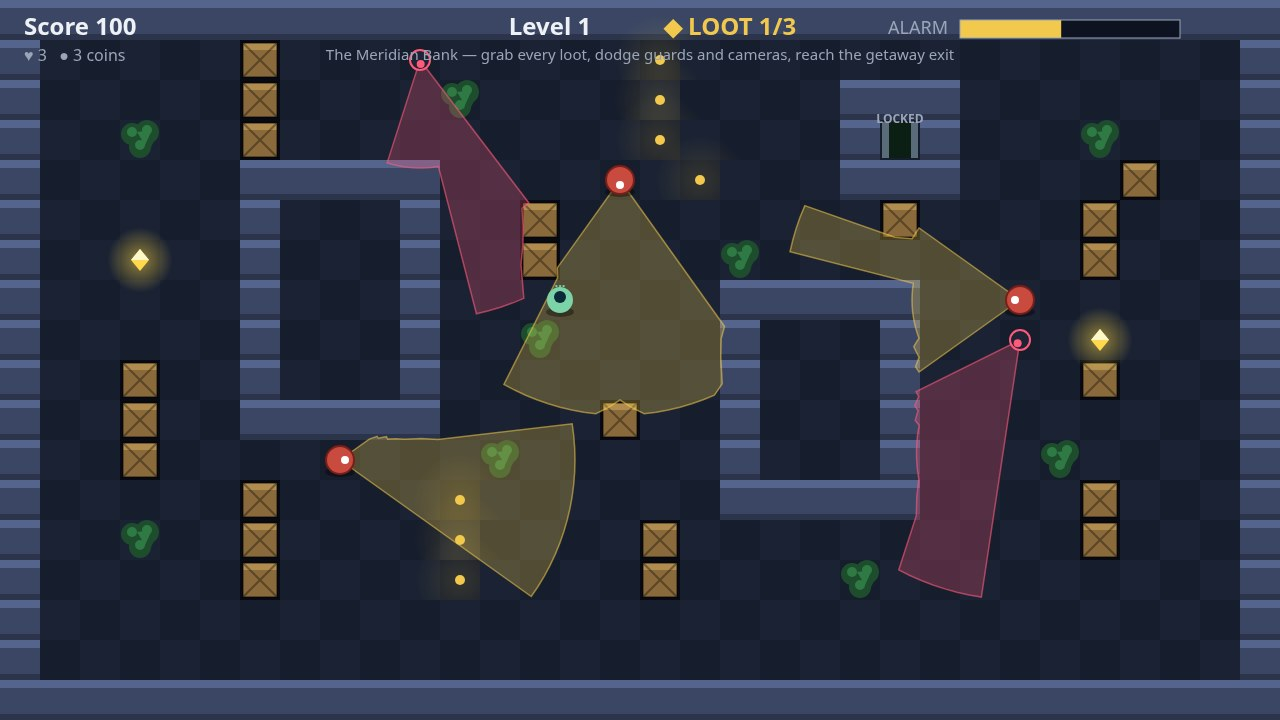
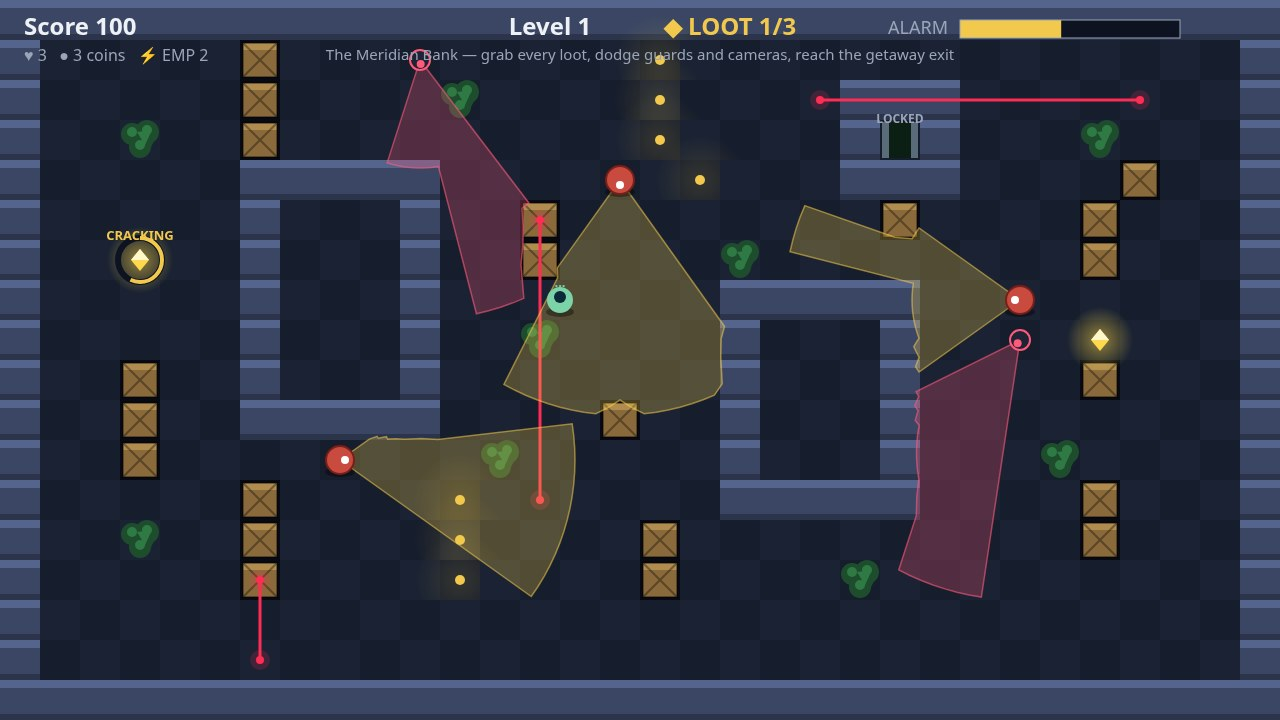
Add lasers, safe-cracking, EMP gadget

diff --git a/game/src/world.js b/game/src/world.js
@@ -12,6 +12,8 @@ export const EVENT_CAUGHT = 4;
 export const EVENT_LEVEL = 8;
 export const EVENT_WIN = 16;
 export const EVENT_PEBBLE = 32;
+export const EVENT_EMP = 64;
+export const EVENT_LASER = 128;
 
 function clamp(v, lo, hi) { return Math.max(lo, Math.min(hi, v)); }
 function dist(ax, ay, bx, by) { return Math.hypot(ax - bx, ay - by); }
@@ -29,7 +31,12 @@ export function createWorld() {
     player: { x: 60, y: 60, vx: 0, vy: 0, sneaking: false, moving: false },
     guards: [],
     cameras: [],
+    lasers: [],
     relics: [],
+    empCharges: 2,
+    empTimer: 0,
+    crackTarget: null,
+    crackProgress: 0,
     exit: { x: 0, y: 0 },
     start: { x: 60, y: 60 },
     detection: 0,
@@ -61,6 +68,15 @@ export function createWorld() {
       x: c.x * TILE + TILE / 2, y: c.y * TILE + TILE / 2,
       base: c.base, sweep: c.sweep, facing: c.base, seeing: false,
     }));
+    state.lasers = (def.lasers || []).map((l, i) => ({
+      x1: l.x1 * TILE + TILE / 2, y1: l.y1 * TILE + TILE / 2,
+      x2: l.x2 * TILE + TILE / 2, y2: l.y2 * TILE + TILE / 2,
+      period: l.period, onTime: l.on, phase: i * 0.7, live: true,
+    }));
+    state.empCharges = 2;
+    state.empTimer = 0;
+    state.crackTarget = null;
+    state.crackProgress = 0;
     state.guards = def.guards.map((g) => ({
       x: g.x * TILE + TILE / 2,
       y: g.y * TILE + TILE / 2,
@@ -142,6 +158,57 @@ export function createWorld() {
     return { seen: true, rate };
   }
 
+  // Distance from a point to a laser beam segment, in pixels.
+  function beamDistance(px, py, beam) {
+    const dx = beam.x2 - beam.x1;
+    const dy = beam.y2 - beam.y1;
+    const lenSq = dx * dx + dy * dy;
+    let t = lenSq === 0 ? 0 : ((px - beam.x1) * dx + (py - beam.y1) * dy) / lenSq;
+    t = Math.max(0, Math.min(1, t));
+    const cx = beam.x1 + t * dx;
+    const cy = beam.y1 + t * dy;
+    return Math.hypot(px - cx, py - cy);
+  }
+
+  // A laser beam blinks on a cycle: live for onTime seconds of each period.
+  function beamLive(beam) {
+    const cycle = (state.elapsed + beam.phase) % beam.period;
+    return cycle < beam.onTime;
+  }
+
+  // Fire the EMP: cameras go blind for six seconds. Two charges per vault.
+  function fireEmp() {
+    if (state.empCharges <= 0 || state.empTimer > 0) return false;
+    state.empCharges -= 1;
+    state.empTimer = 6;
+    for (const cam of state.cameras) cam.seeing = false;
+    return true;
+  }
+
+  // Cracking a safe: stand beside a loot stash and hold still for 1.4
+  // seconds. Moving away or being spotted resets the progress.
+  function updateCracking(dt, anySeen) {
+    let near = null;
+    for (const r of state.relics) {
+      if (!r.taken && dist(state.player.x, state.player.y, r.x, r.y) < 34) { near = r; break; }
+    }
+    if (near === null || anySeen) {
+      state.crackTarget = null;
+      state.crackProgress = 0;
+      return null;
+    }
+    if (state.crackTarget !== near) { state.crackTarget = near; state.crackProgress = 0; }
+    state.crackProgress += dt;
+    if (state.crackProgress >= 1.4) {
+      near.taken = true;
+      state.score += 100;
+      state.crackTarget = null;
+      state.crackProgress = 0;
+      return near;
+    }
+    return null;
+  }
+
   function moveGuard(guard, tx, ty, speed, dt) {
     const dx = tx - guard.x;
     const dy = ty - guard.y;
@@ -184,24 +251,35 @@ export function createWorld() {
       if (state.pebble.timer <= 0) state.pebble = null;
     }
 
-    // Loot stashes.
-    for (const r of state.relics) {
-      if (!r.taken && dist(p.x, p.y, r.x, r.y) < 26) {
-        r.taken = true;
-        state.score += 100;
-        events |= EVENT_RELIC;
+    // EMP: the thief's one gadget. Press E and every camera goes blind.
+    if (input.emp && fireEmp()) events |= EVENT_EMP;
+    if (state.empTimer > 0) state.empTimer = Math.max(0, state.empTimer - dt);
+
+    // Laser tripwires: a live beam the thief touches trips the alarm.
+    for (const beam of state.lasers) {
+      beam.live = beamLive(beam);
+      if (beam.live && beamDistance(p.x, p.y, beam) < 12) {
+        state.lastSeen = { x: p.x, y: p.y };
+        events |= EVENT_LASER;
       }
     }
-    const relicsLeft = state.relics.filter((r) => !r.taken).length;
 
     // Cameras: sweep, and fill the alarm meter when the thief is in frame.
     let anySeen = false;
     let seenRate = 0;
     for (const cam of state.cameras) {
       cam.facing = cam.base + Math.sin(state.elapsed * CAMERA.sweepSpeed) * cam.sweep;
+      if (state.empTimer > 0) { cam.seeing = false; continue; }
       const s = cameraSees(cam);
       cam.seeing = s.seen;
       if (s.seen) { anySeen = true; seenRate = Math.max(seenRate, s.rate); state.lastSeen = { x: p.x, y: p.y }; }
+    }
+    // A live laser beam touching the thief trips the alarm meter.
+    for (const beam of state.lasers) {
+      if (beam.live && beamDistance(p.x, p.y, beam) < 12) {
+        anySeen = true;
+        seenRate = Math.max(seenRate, 110);
+      }
     }
 
     // Guards: see, chase, investigate, patrol.
@@ -239,6 +317,11 @@ export function createWorld() {
         return events;
       }
     }
+
+    // Safe-cracking: loot is only taken after holding still beside it.
+    const cracked = updateCracking(dt, anySeen);
+    if (cracked) events |= EVENT_RELIC;
+    const relicsLeft = state.relics.filter((r) => !r.taken).length;
 
     if (anySeen) {
       const wasAlarmed = state.alarm;

diff --git a/game/src/render.js b/game/src/render.js
@@ -127,6 +127,41 @@ export function createRenderer(canvas) {
     return pts;
   }
 
+  function drawLasers(state) {
+    // Laser tripwires: bright red beams while live, faint dotted stubs
+    // while they blink off, so the thief can time the crossing.
+    for (const beam of state.lasers || []) {
+      context.strokeStyle = beam.live ? '#ff2d55' : 'rgba(255,45,85,0.25)';
+      context.lineWidth = beam.live ? 3 : 1.5;
+      if (!beam.live) context.setLineDash([4, 6]);
+      context.beginPath();
+      context.moveTo(beam.x1, beam.y1);
+      context.lineTo(beam.x2, beam.y2);
+      context.stroke();
+      context.setLineDash([]);
+      context.fillStyle = beam.live ? '#ff2d55' : 'rgba(255,45,85,0.4)';
+      context.beginPath(); context.arc(beam.x1, beam.y1, 4, 0, Math.PI * 2); context.fill();
+      context.beginPath(); context.arc(beam.x2, beam.y2, 4, 0, Math.PI * 2); context.fill();
+      if (beam.live) {
+        context.fillStyle = 'rgba(255,45,85,0.18)';
+        context.beginPath(); context.arc(beam.x1, beam.y1, 10, 0, Math.PI * 2); context.fill();
+        context.beginPath(); context.arc(beam.x2, beam.y2, 10, 0, Math.PI * 2); context.fill();
+      }
+    }
+  }
+
+  function drawCrackRing(state) {
+    // Safe-cracking progress: a gold ring closing around the loot stash.
+    if (!state.crackTarget) return;
+    const target = state.crackTarget;
+    const frac = Math.min(1, state.crackProgress / 1.4);
+    context.strokeStyle = '#0d1320'; context.lineWidth = 6;
+    context.beginPath(); context.arc(target.x, target.y, 22, 0, Math.PI * 2); context.stroke();
+    context.strokeStyle = PALETTE.gold; context.lineWidth = 4;
+    context.beginPath(); context.arc(target.x, target.y, 22, -Math.PI / 2, -Math.PI / 2 + frac * Math.PI * 2); context.stroke();
+    text('CRACKING', target.x, target.y - 30, 13, PALETTE.gold, 'center');
+  }
+
   function drawCones(state, world) {
     // Camera cones: pink, sweeping, fixed to the wall.
     for (const cam of state.cameras || []) {
@@ -147,9 +182,9 @@ export function createRenderer(canvas) {
       context.moveTo(pts[0].x, pts[0].y);
       for (let i = 1; i < pts.length; i += 1) context.lineTo(pts[i].x, pts[i].y);
       context.closePath();
-      context.fillStyle = cam.seeing ? 'rgba(255,90,122,0.42)' : PALETTE.cameraCone;
+      context.fillStyle = state.empTimer > 0 ? 'rgba(120,130,150,0.12)' : cam.seeing ? 'rgba(255,90,122,0.42)' : PALETTE.cameraCone;
       context.fill();
-      context.strokeStyle = PALETTE.cameraConeEdge;
+      context.strokeStyle = state.empTimer > 0 ? 'rgba(120,130,150,0.4)' : PALETTE.cameraConeEdge;
       context.lineWidth = 1.5; context.stroke();
     }
     for (const g of state.guards) {
@@ -215,7 +250,7 @@ export function createRenderer(canvas) {
     context.fillStyle = '#0d1320'; context.fillRect(barX, barY, barW, barH);
     context.fillStyle = det > 60 ? PALETTE.danger : PALETTE.gold; context.fillRect(barX, barY, barW * (det / 100), barH);
     context.strokeStyle = PALETTE.muted; context.lineWidth = 1; context.strokeRect(barX, barY, barW, barH);
-    plain(`♥ ${state.lives}   ● ${state.pebbles} coins`, 24, 48, 16, PALETTE.muted, 'left');
+    plain(`♥ ${state.lives}   ● ${state.pebbles} coins   ⚡ EMP ${state.empCharges}${state.empTimer > 0 ? ' — cameras blind ' + state.empTimer.toFixed(0) + 's' : ''}`, 24, 48, 16, PALETTE.muted, 'left');
     plain(state.level.def.name + ' — grab every loot, dodge guards and cameras, reach the getaway exit', FIELD.width / 2, 48, 15, PALETTE.muted, 'center');
   }
 
@@ -254,13 +289,15 @@ export function createRenderer(canvas) {
     context.fillStyle = PALETTE.backdrop;
     context.fillRect(0, 0, FIELD.width, FIELD.height);
     drawFloor(state);
+    drawLasers(state);
     drawCones(state, world);
     drawActors(state);
+    drawCrackRing(state);
     if (screen === SCREEN_TITLE) {
       drawTitleBanner('MIDNIGHT VAULT', [
-        'One thief. Three vaults. Grab every loot, then reach the getaway exit.',
-        'WASD / arrows to move · Shift to sneak · Click to throw a coin',
-        'Stay out of the yellow guard cones and pink camera cones. Shadows hide you. Spotlights expose you.',
+        'One thief. Three vaults. Crack every safe, then reach the getaway exit.',
+        'WASD / arrows to move · Shift to sneak · Click to throw a coin · E for EMP',
+        'Dodge guard cones, camera cones and laser beams. Stand still by a safe to crack it.',
       ], 'Press Space or click to start the heist');
       return;
     }

diff --git a/game/src/main.js b/game/src/main.js
@@ -5,7 +5,7 @@
 // (with &seed=N) stages that scene instead of running the loop, paints
 // it twice and sets window.__shotReady for a screenshot.
 import { BEST_KEY, FIELD, STEP } from './config.js';
-import { createWorld, EVENT_CAUGHT, EVENT_LEVEL, EVENT_PEBBLE, EVENT_RELIC, EVENT_SPOTTED, EVENT_WIN } from './world.js';
+import { createWorld, EVENT_CAUGHT, EVENT_EMP, EVENT_LASER, EVENT_LEVEL, EVENT_PEBBLE, EVENT_RELIC, EVENT_SPOTTED, EVENT_WIN } from './world.js';
 import { ACTION_CONFIRM, ACTION_PAUSE, createInput } from './input.js';
 import { createAudio } from './audio.js';
 import { createRenderer, SCREEN_LEVEL, SCREEN_OVER, SCREEN_PAUSED, SCREEN_PLAY, SCREEN_TITLE, SCREEN_WIN } from './render.js';
@@ -52,7 +52,7 @@ function runGame() {
     world.reset();
     accumulator = 0;
     screen = SCREEN_PLAY;
-    announce('Playing. Grab every loot, dodge the guards and cameras, then reach the getaway exit unseen.');
+    announce('Playing. Crack every safe, dodge guards, cameras and lasers, then reach the getaway exit unseen. E fires the EMP.');
   }
   function endGame() {
     screen = SCREEN_OVER;
@@ -90,8 +90,11 @@ function runGame() {
       const oy = (canvas.clientHeight - FIELD.height * scale) / 2;
       pebble = { x: (click.clientX - ox) / scale, y: (click.clientY - oy) / scale };
     }
-    const events = world.step(STEP, { dx: dir.dx, dy: dir.dy, sneak: dir.sneak, pebble });
-    if (events & EVENT_RELIC) { audio.relic(); announce('Loot grabbed.'); }
+    const emp = input.takeEmp();
+    const events = world.step(STEP, { dx: dir.dx, dy: dir.dy, sneak: dir.sneak, pebble, emp });
+    if (events & EVENT_RELIC) { audio.relic(); announce('Safe cracked. Loot grabbed.'); }
+    if (events & EVENT_EMP) { audio.pebble(); announce('EMP fired. Cameras blind for six seconds.'); }
+    if (events & EVENT_LASER) { audio.spotted(); announce('Laser tripped! Get out of the beam!'); }
     if (events & EVENT_PEBBLE) { audio.pebble(); announce('Coin thrown. A guard goes to look.'); }
     if (events & EVENT_SPOTTED) { audio.spotted(); announce('Spotted! Alarm! Break line of sight!'); }
     if (events & EVENT_CAUGHT) {

diff --git a/game/src/levels.js b/game/src/levels.js
@@ -11,6 +11,11 @@ export const LEVELS = [
       { x: 10, y: 1, base: 0.9, sweep: 0.9 },
       { x: 25, y: 8, base: 2.6, sweep: 0.8 },
     ],
+    lasers: [
+      { x1: 13, y1: 5, x2: 13, y2: 12, period: 2.4, on: 1.6 },
+      { x1: 20, y1: 2, x2: 28, y2: 2, period: 3.2, on: 2.0 },
+      { x1: 6, y1: 14, x2: 6, y2: 16, period: 2.0, on: 1.2 },
+    ],
     map: [
       '################################',
       '#S....C.........L.....R........#',
@@ -44,6 +49,12 @@ export const LEVELS = [
       { x: 16, y: 1, base: 1.2, sweep: 1.0 },
       { x: 6, y: 16, base: -0.6, sweep: 0.9 },
       { x: 27, y: 10, base: 2.8, sweep: 0.8 },
+    ],
+    lasers: [
+      { x1: 10, y1: 4, x2: 10, y2: 11, period: 2.8, on: 1.8 },
+      { x1: 18, y1: 15, x2: 26, y2: 15, period: 3.0, on: 1.9 },
+      { x1: 24, y1: 3, x2: 24, y2: 9, period: 2.2, on: 1.4 },
+      { x1: 5, y1: 8, x2: 9, y2: 8, period: 2.6, on: 1.5 },
     ],
     map: [
       '################################',
@@ -80,6 +91,13 @@ export const LEVELS = [
       { x: 28, y: 1, base: 2.2, sweep: 0.9 },
       { x: 4, y: 16, base: -0.4, sweep: 0.9 },
       { x: 20, y: 16, base: 4.0, sweep: 0.8 },
+    ],
+    lasers: [
+      { x1: 9, y1: 3, x2: 9, y2: 12, period: 2.4, on: 1.5 },
+      { x1: 17, y1: 6, x2: 25, y2: 6, period: 3.4, on: 2.2 },
+      { x1: 27, y1: 10, x2: 27, y2: 15, period: 2.0, on: 1.3 },
+      { x1: 13, y1: 16, x2: 21, y2: 16, period: 2.8, on: 1.7 },
+      { x1: 4, y1: 5, x2: 4, y2: 9, period: 2.2, on: 1.4 },
     ],
     map: [
       '################################',

diff --git a/game/src/input.js b/game/src/input.js
@@ -15,12 +15,15 @@ export function createInput(target) {
   const keys = new Set();
   let actions = 0;
   let click = null;
+  let empQueued = false;
 
   window.addEventListener('keydown', (event) => {
     if (LEFT.has(event.code) || RIGHT.has(event.code) || UP.has(event.code) || DOWN.has(event.code)) {
       keys.add(event.code);
     } else if (event.code === 'ShiftLeft' || event.code === 'ShiftRight') {
       keys.add(event.code);
+    } else if (event.code === 'KeyE') {
+      if (!event.repeat) empQueued = true;
     } else if (CONFIRM.has(event.code)) {
       if (!event.repeat) actions |= ACTION_CONFIRM;
     } else if (PAUSE.has(event.code)) {
@@ -45,6 +48,7 @@ export function createInput(target) {
       return { dx, dy, sneak: keys.has('ShiftLeft') || keys.has('ShiftRight') };
     },
     takeClick() { const c = click; click = null; return c; },
+    takeEmp() { const e = empQueued; empQueued = false; return e; },
     takeActions() { const taken = actions; actions = 0; return taken; },
   };
 }

diff --git a/game/src/shots.js b/game/src/shots.js
@@ -8,11 +8,12 @@ export function stageShot(name, world) {
   const s = world.state;
   world.reset();
   if (name === 'play') {
-    // Mid-heist: sneaking behind a cabinet, one loot taken, a guard cone
-    // sweeping just past the thief, a camera cone sweeping the vault,
-    // alarm meter half full.
+    // Mid-heist: sneaking behind a cabinet, cracking the second safe
+    // while a laser beam blinks beside the thief, a guard cone sweeping
+    // just past, a camera cone sweeping the vault, alarm meter half full.
     s.player.x = 560; s.player.y = 300; s.player.sneaking = true;
     s.relics[0].taken = true; s.score = 100; s.detection = 46;
+    s.crackTarget = s.relics[1]; s.crackProgress = 0.8;
     s.guards[0].x = 620; s.guards[0].y = 180; s.guards[0].facing = Math.PI / 2;
     s.guards[1].x = 340; s.guards[1].y = 460; s.guards[1].facing = 0;
     s.guards[2].x = 1020; s.guards[2].y = 300; s.guards[2].facing = Math.PI;

diff --git a/README.md b/README.md
@@ -4,7 +4,7 @@
 [![rank](https://make.fun/badge/best-heist-game-20261122-0559/tdjack/makefun-heist-game/rank.svg)](https://make.fun/bounty/best-heist-game-20261122-0559/leaderboard?utm_source=github&utm_medium=readme&utm_campaign=best-heist-game-20261122-0559)
 [![reward](https://make.fun/badge/best-heist-game-20261122-0559/tdjack/makefun-heist-game/reward.svg)](https://make.fun/bounty/best-heist-game-20261122-0559?utm_source=github&utm_medium=readme&utm_campaign=best-heist-game-20261122-0559)
 
-Midnight Vault is a complete top-down heist game: you are a thief crossing a guarded bank vault, grabbing every loot stash, then reaching the getaway exit unseen. Three levels (The Meridian Bank, The Gilded Gallery, The Diamond Vault), patrolling guards with raycast vision cones, wall-mounted security cameras with sweeping pink cones, vault cabinets and walls for cover, shadows to hide in, spotlights that expose you, an alarm meter that fills when a guard or camera sees you and triggers a chase, coin distractions, and a sneak mode.
+Midnight Vault is a complete top-down heist game: you are a thief crossing a guarded bank vault, cracking every safe, then reaching the getaway exit unseen. Three levels (The Meridian Bank, The Gilded Gallery, The Diamond Vault), patrolling guards with raycast vision cones, wall-mounted security cameras with sweeping pink cones, blinking laser tripwires that trip the alarm when touched, vault cabinets and walls for cover, shadows to hide in, spotlights that expose you, an alarm meter that fills when a guard, camera or laser sees you and triggers a chase, coin distractions, a sneak mode, and an EMP gadget (E, two charges per vault) that blinds every camera for six seconds. Loot is not grabbed on touch: stand still beside a safe for 1.4 seconds to crack it, and being spotted resets the crack.
 
 ## Run it
 
@@ -12,7 +12,7 @@ Midnight Vault is a complete top-down heist game: you are a thief crossing a gua
 node serve.ts
 ```
 
-Then open http://localhost:8080. Move with WASD or arrow keys, hold Shift to sneak, click to throw a coin and lure a guard away. Grab every loot to unlock the getaway exit.
+Then open http://localhost:8080. Move with WASD or arrow keys, hold Shift to sneak, click to throw a coin and lure a guard away, press E to fire the EMP. Stand still beside a safe to crack it — crack every loot to unlock the getaway exit, and time the laser beams: they blink off for a short window in each cycle.
 
 ---
 
